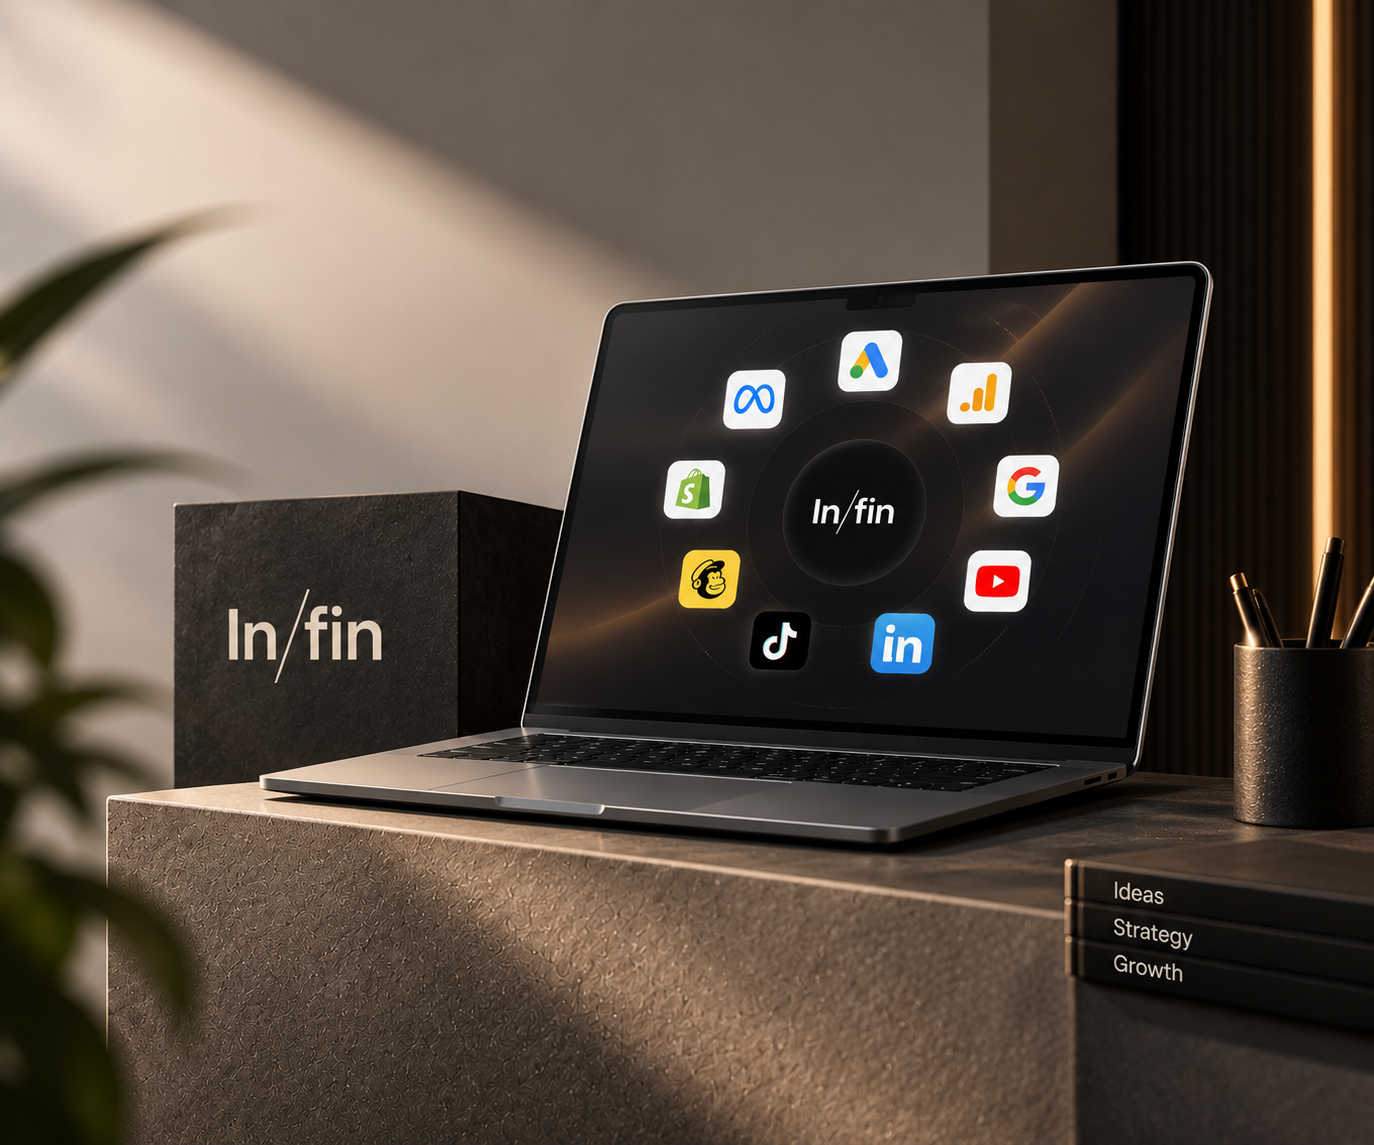
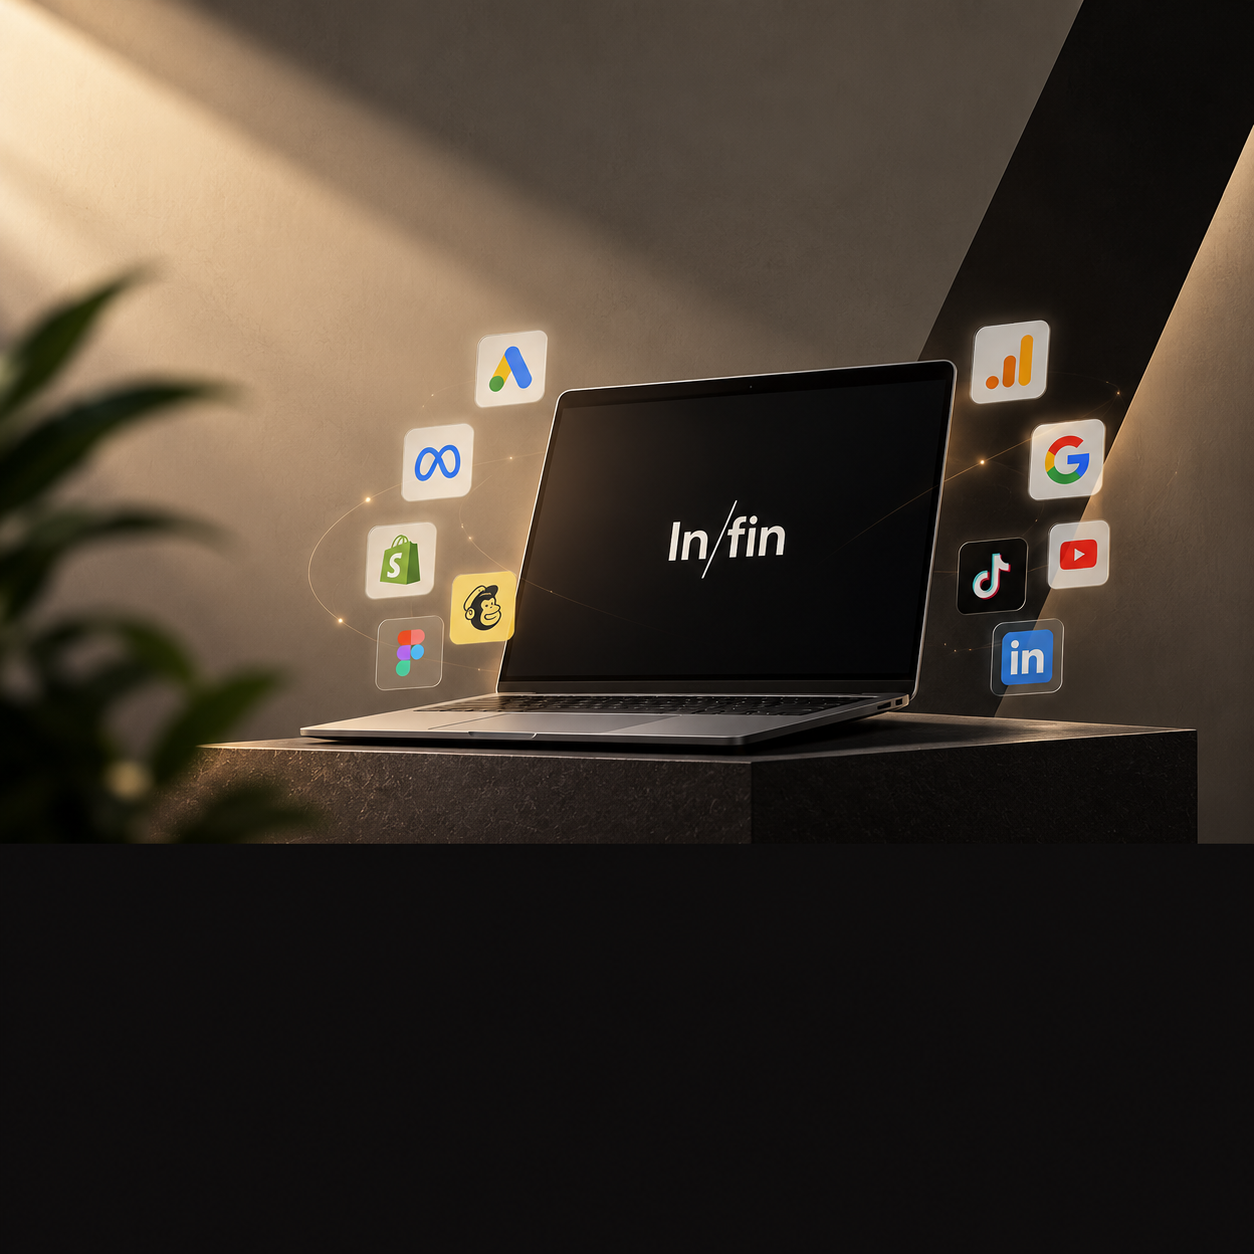
Use the plinth shot on the About card

diff --git a/src/shared/sections/index-2/Section2.tsx b/src/shared/sections/index-2/Section2.tsx
@@ -119,10 +119,10 @@ export default function Section2() {
                                 <div className="card-item__bg">
                                     <img
                                         src="/assets/imgs/pages/img-inf.png"
-                                        alt="A laptop on a studio desk showing the in/fin mark ringed by the ad and analytics platforms we work across"
+                                        alt="A laptop on a studio plinth showing the in/fin mark, ringed by the ad and analytics platforms we work across"
                                         className="home-2-card-item__bg-img img-cover"
-                                        width={1374}
-                                        height={1145} loading="lazy" />
+                                        width={1254}
+                                        height={1254} loading="lazy" />
                                 </div>
                                 <div className="card-item-content p-absolute bottom-0 start-0">
                                     {QUOTE_SVG}
